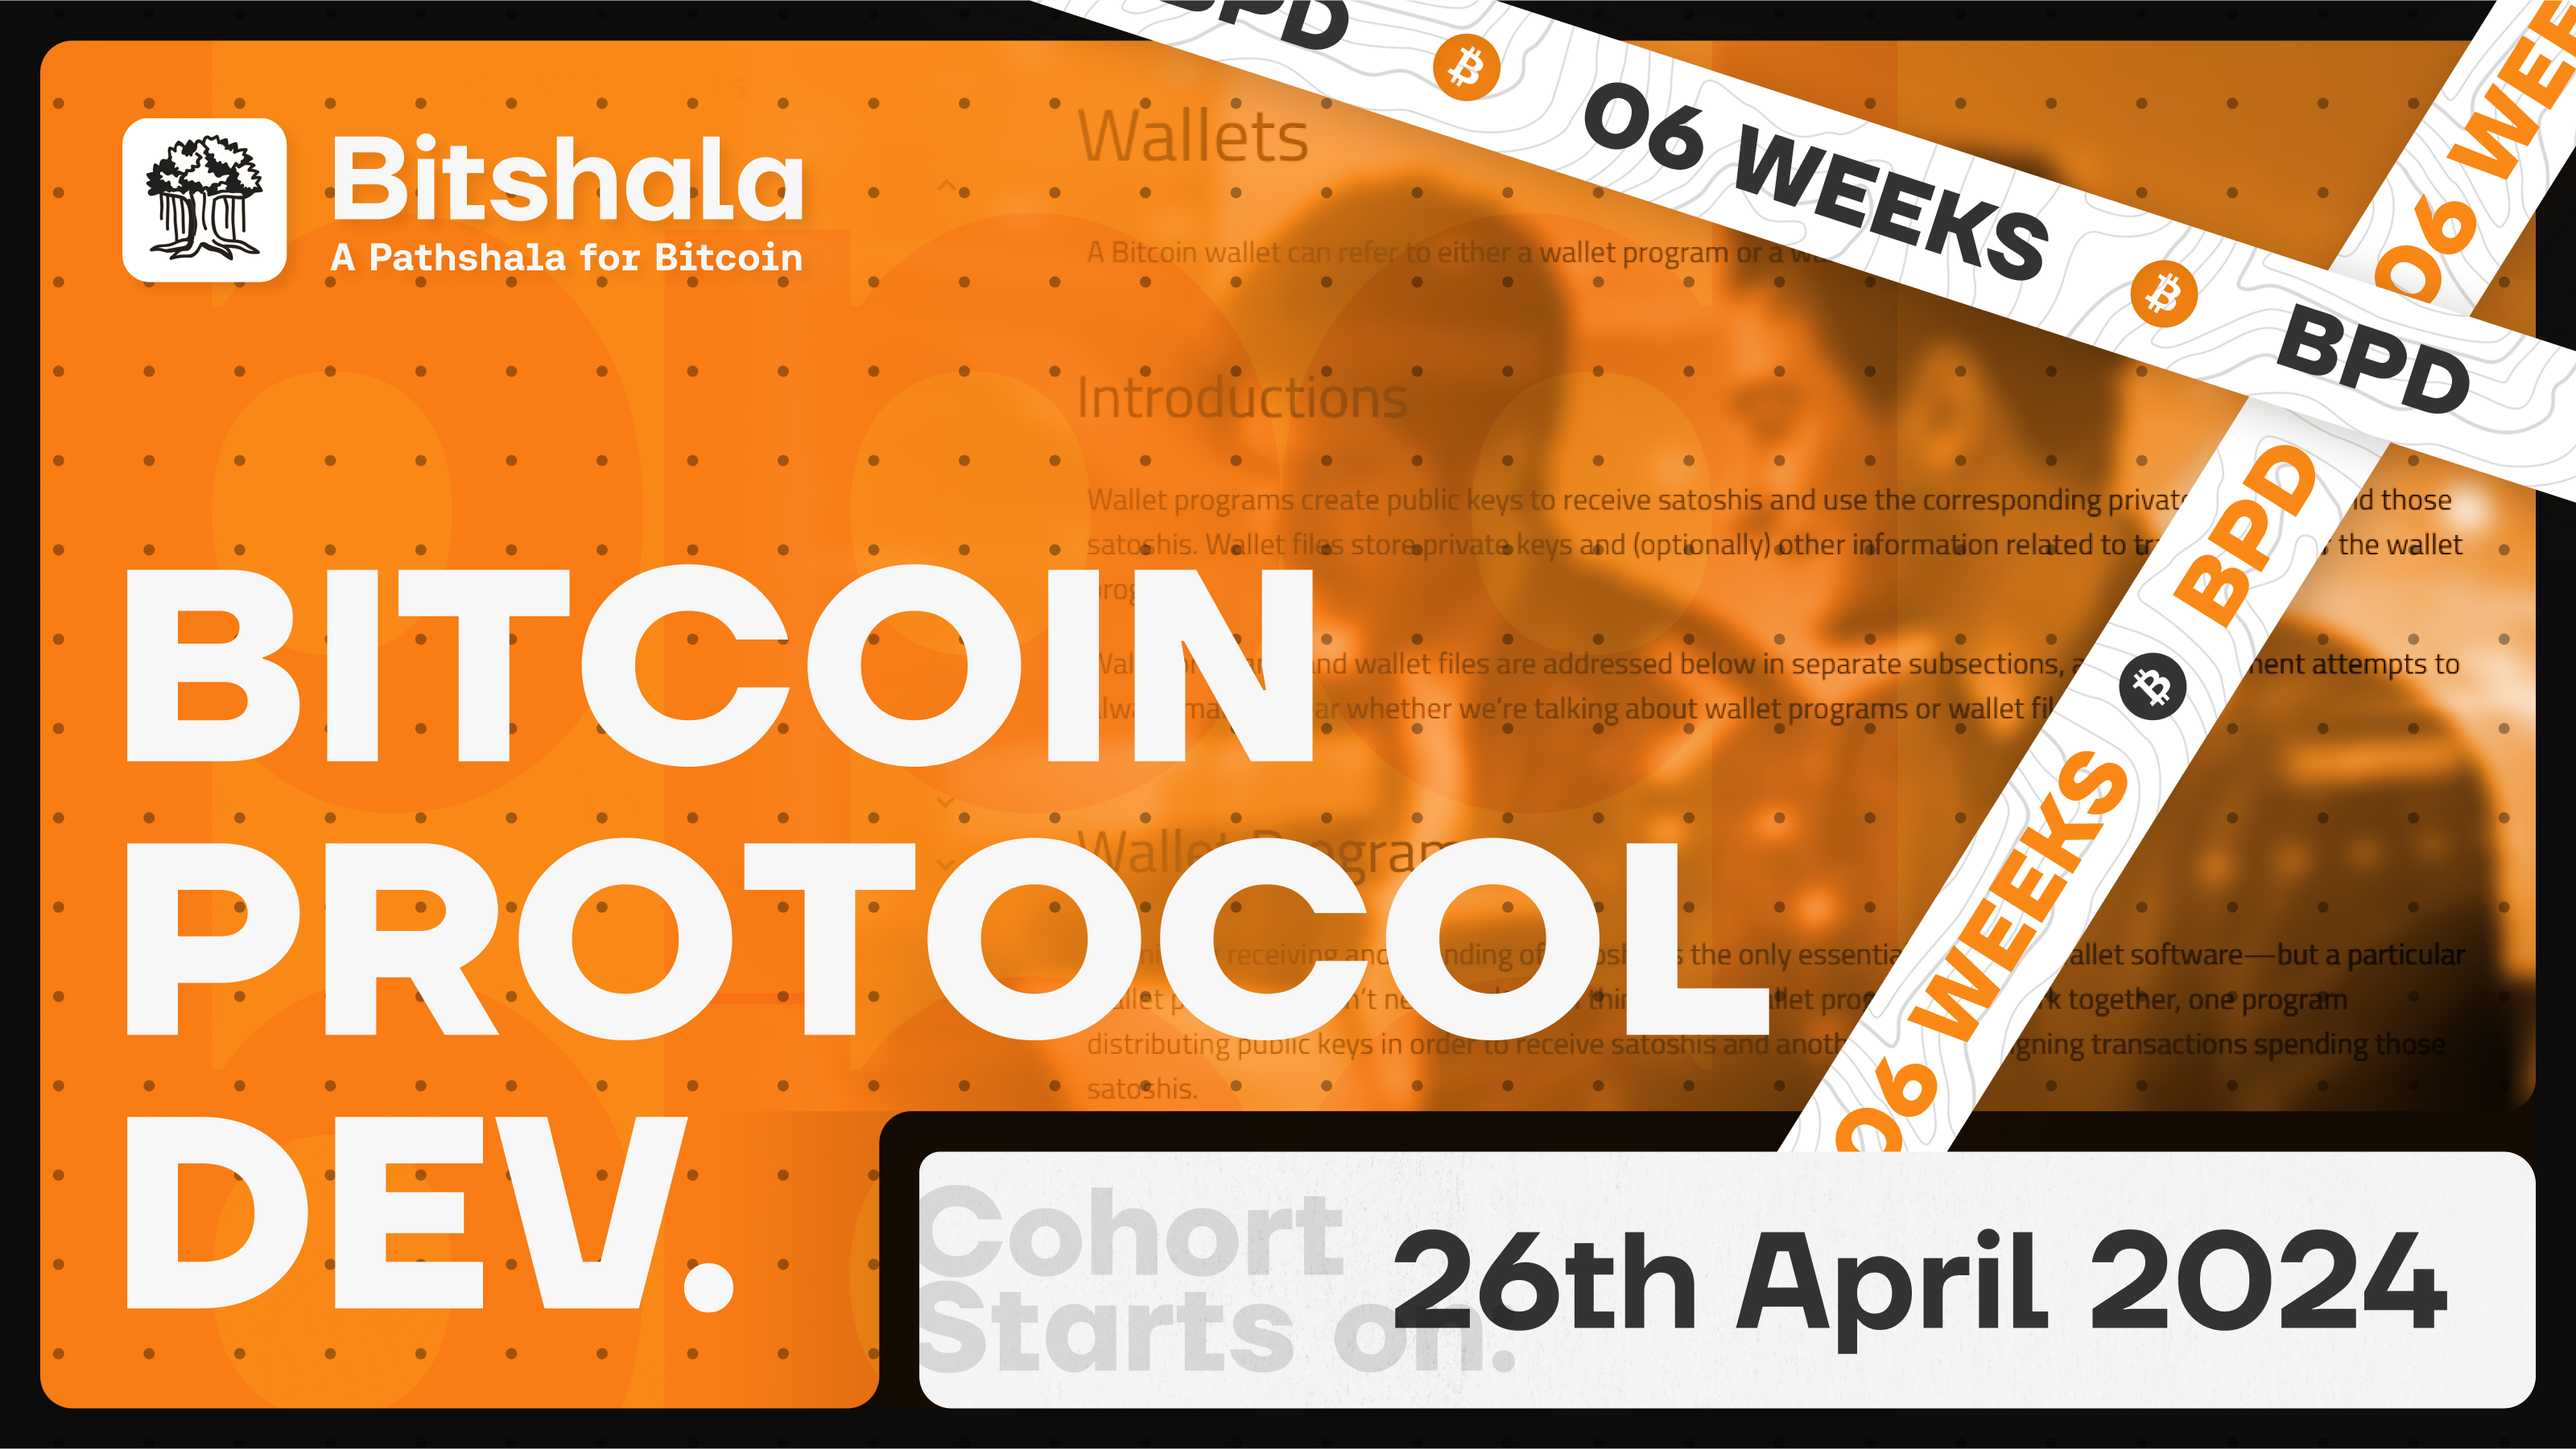
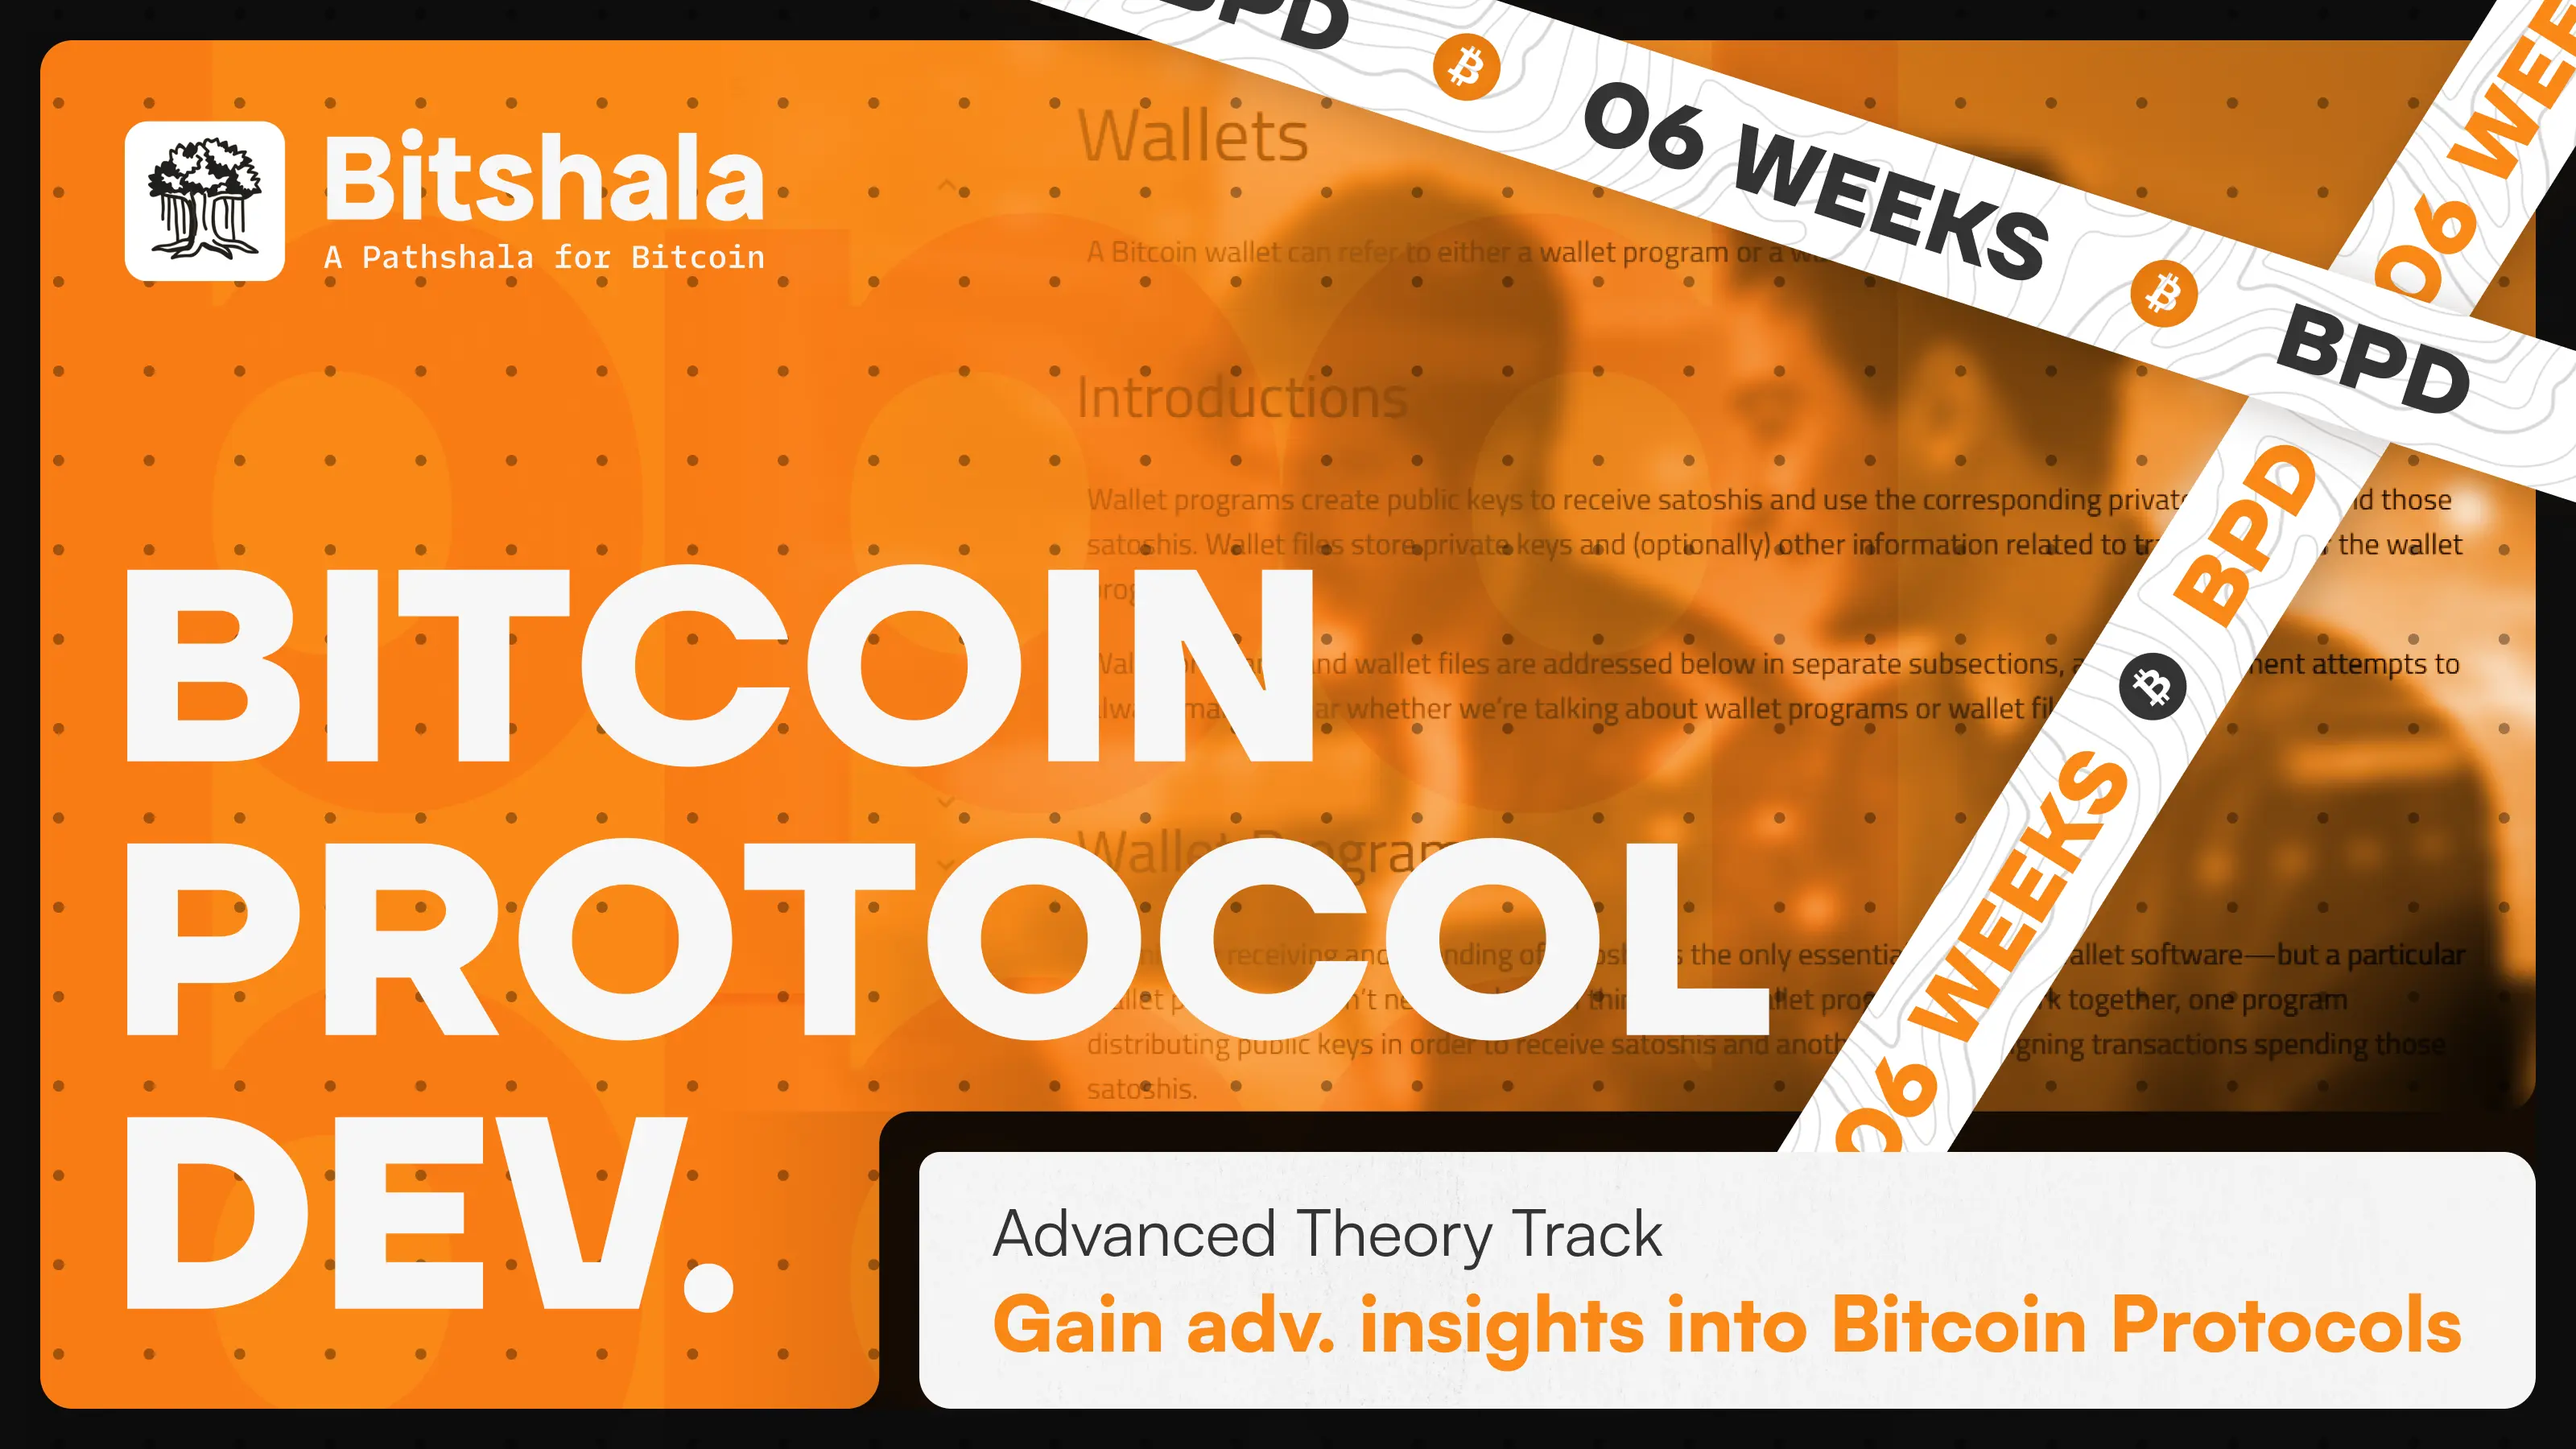
fixes #176 : added new posters, badges and dates for the cohort

diff --git a/src/components/common/Carousel.jsx b/src/components/common/Carousel.jsx
@@ -1,7 +1,7 @@
 // import { useState } from "react";
 const slides = [
   {
-    url: "/cohort/masteringBitcoin.webp",
+    url: "/cohort/mb.webp",
     title: "Bitcoin Study Cohorts",
     content:
       "You, with fellow learners collectively explore selected texts over several weeks in a structured self-study format. You gain hands-on experience and in-depth insights into Bitcoin’s technical aspects. And also receive certificates to celebrate your wins!",
